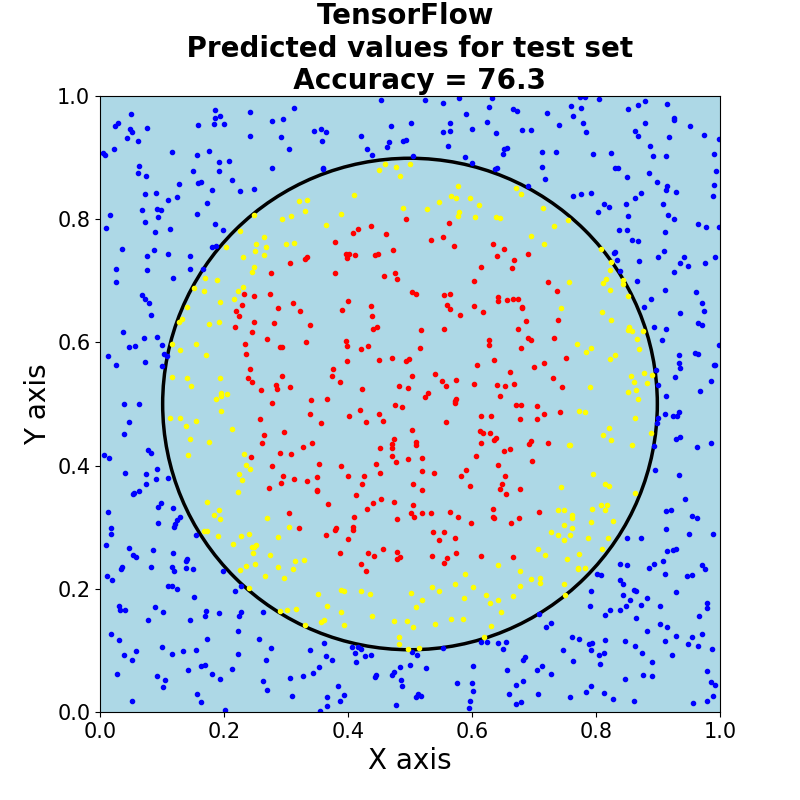
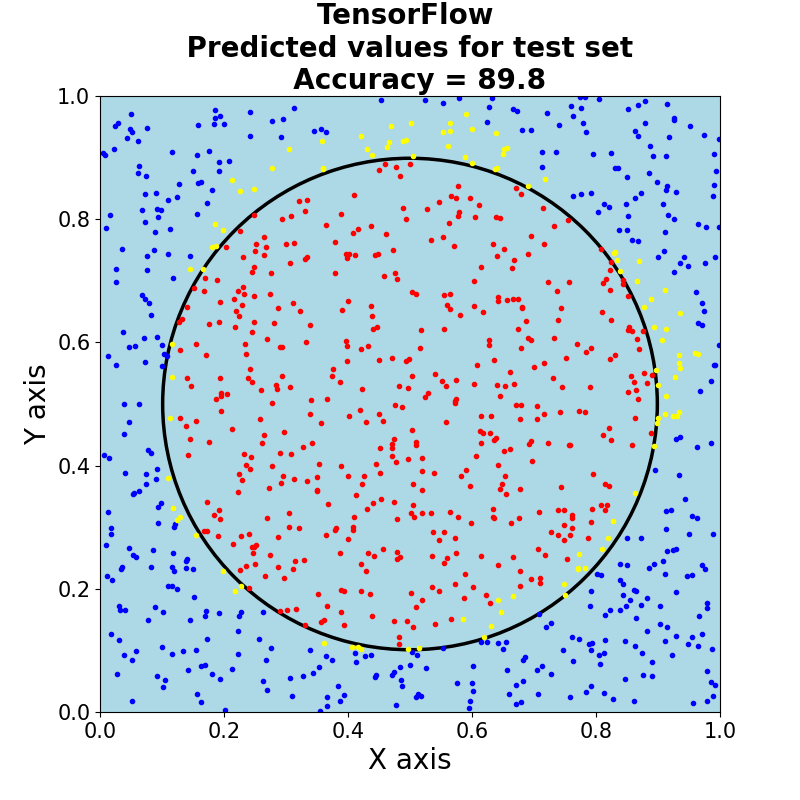
removed mse forward from model forward

diff --git a/mdlf/models.py b/mdlf/models.py
@@ -63,21 +63,19 @@ class Sequential:
 #modify subsequently backward by suppressing the last_activation and init delta to None
 #modify also activation backward to get only 1 possible case
 
-    def forward(self, input, label):
+    def forward(self,input):
         tmp = input
         
         for module in self.modules:
             output = module.forward(tmp)
             tmp = output
-        
-        outpout = self.loss.forward(tmp,label)
 
-        return outpout
+        return output
     
         #simple case : when begin with layer, alternate with activations / layers, and ends with an activation
         #TODO : implement reconstruct to modify modules
     def backward(self, input, label):
-        output = self.forward(input,label)
+        output = self.forward(input)
 
         delta = self.loss.backward(output, label)
         for module in reversed(self.modules):
@@ -116,15 +114,15 @@ class Sequential:
     def loss_accuracy_function(self,train_data,train_label):
         
         size = train_data.size(0)
-        prediction = torch.empty(size)
+        output = torch.empty(size)
         loss = torch.empty(size)
 
         for i in range (size):
-            loss[i] = self.forward(train_data[i],train_label[i])
-            prediction[i] = self.loss.input
+            output[i] = self.forward(train_data[i])
+            loss[i] = self.loss.forward(output[i],train_label[i])
 
-        accuracy = self.metrics(prediction, train_label)
-        return loss.mean(), accuracy, prediction
+        accuracy = self.metrics(output, train_label)
+        return loss.mean(), accuracy, output
     
     def __call__(self,test_data,test_label):
         test_loss,test_accuracy, predicted_labels = self.loss_accuracy_function(test_data,test_label)

diff --git a/utils.py b/utils.py
@@ -60,15 +60,15 @@ def call_NN_tensorflow(train_data,train_labels,test_data,test_labels,
     model_tf.add(layers_tf.Dense(25, activation='relu'))
     model_tf.add(layers_tf.Dense(25, activation='relu'))
     model_tf.add(layers_tf.Dense(25, activation='relu'))
-    model_tf.add(layers_tf.Dense(1, activation='tanh'))
-    #model_tf.add(layers_tf.Dense(1, activation="sigmoid"))
+    # model_tf.add(layers_tf.Dense(1, activation='tanh'))
+    model_tf.add(layers_tf.Dense(1, activation="sigmoid"))
 
     model_tf.summary()
 
-    metrics = tf.keras.metrics.BinaryAccuracy(name="binary_accuracy", dtype=None, threshold=0.0)
+    metrics = tf.keras.metrics.BinaryAccuracy(name="binary_accuracy", dtype=None, threshold=0.5)
     metrics2 = tf.keras.metrics.BinaryAccuracy(name="accuracy")
 
-    model_tf.compile(optimizer='SGD',loss='MSE',metrics=[metrics, metrics2])
+    model_tf.compile(optimizer=tf.keras.optimizers.SGD(learning_rate=0.1),loss='MSE',metrics=[metrics, metrics2])
 
     history = model_tf.fit(train_data.tolist(), 
                            train_labels.tolist(), 
@@ -87,7 +87,7 @@ def call_NN_tensorflow(train_data,train_labels,test_data,test_labels,
 
     if show_points :
         predictions = model_tf.predict(test_data.tolist())
-        predictions =[1 if i >=0.0 else 0 for i in predictions]
+        predictions =[1 if i >=0.5 else 0 for i in predictions]
         plot_circle_with_predicted_labels(test_data,test_labels,predictions,tensorflow = True)
 
 

diff --git a/mdlf/loss.py b/mdlf/loss.py
@@ -2,10 +2,10 @@ from mdlf.module import Module
 
 
 class Loss(Module):   
-    #TODO : just evaluation : return it and print it
+
     def forward(self, input, label): 
         raise NotImplementedError
-    #TODO : just derivate
+
     def backward(self, input,label): 
         raise NotImplementedError
 
@@ -19,20 +19,16 @@ class MSE(Loss):
         self.input = None
         self.label = None
 
-    #TODO
     def forward(self, input, label): 
         self.input = input
         self.label = label
-        loss_mse = (0.5*(input - label) ** 2)
+        loss_mse = ((input - label) ** 2).sum()
         return loss_mse
-        #raise NotImplementedError
 
-    #TODO : change it
     def backward(self, input, label):
-        outpout =  input - label
-        return outpout
-        #return gradwrtoutput[0]
+        output =  2 * (input - label)
+        return output
 
-    #TODO : See if needed
+
     def __str__(self):
         raise NotImplementedError

diff --git a/test.py b/test.py
@@ -37,14 +37,14 @@ model.add(activations.ReLU())
 model.add(layers.Linear(number_nodes=1))
 model.add(activations.Sigmoid())
 
-model.compile(optimizer=optimizer.SGD(), 
+model.compile(optimizer=optimizer.SGD(lambda_ = 0.01), 
               loss=loss.MSE(), 
               metrics=metrics.BinaryAccuracy(threshold=0.5))
 
 print(model)
 
 #two way to call function train -> input only train or train + test
-train_loss_per_epochs, train_accuracy_per_epochs = model.train(train_data, train_label, epochs=10)
+train_loss_per_epochs, train_accuracy_per_epochs = model.train(train_data, train_label, epochs=100)
 #train_loss_per_epochs, train_accuracy_per_epochs, test_loss_per_epochs, test_accuracy_per_epochs = model.train(train_data, train_label,epochs = 10, test_data =test_data, test_label= test_label)
 
 #fit function 
